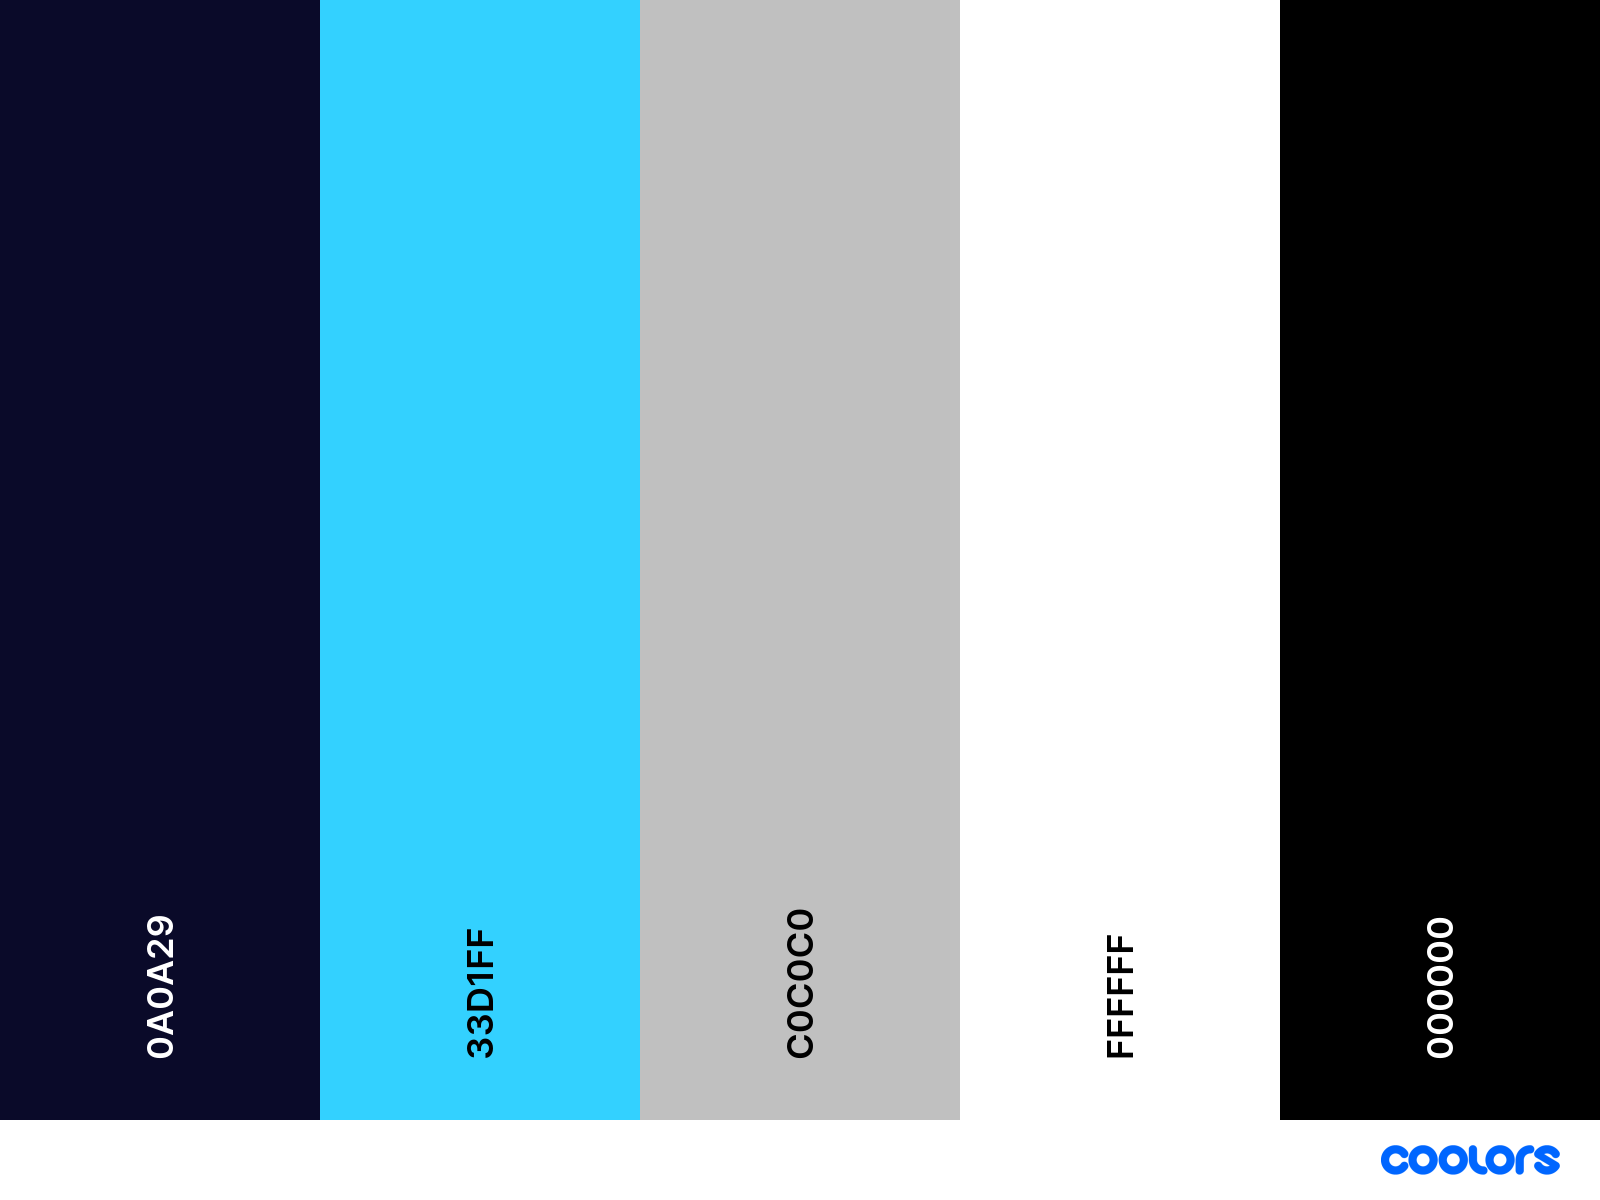
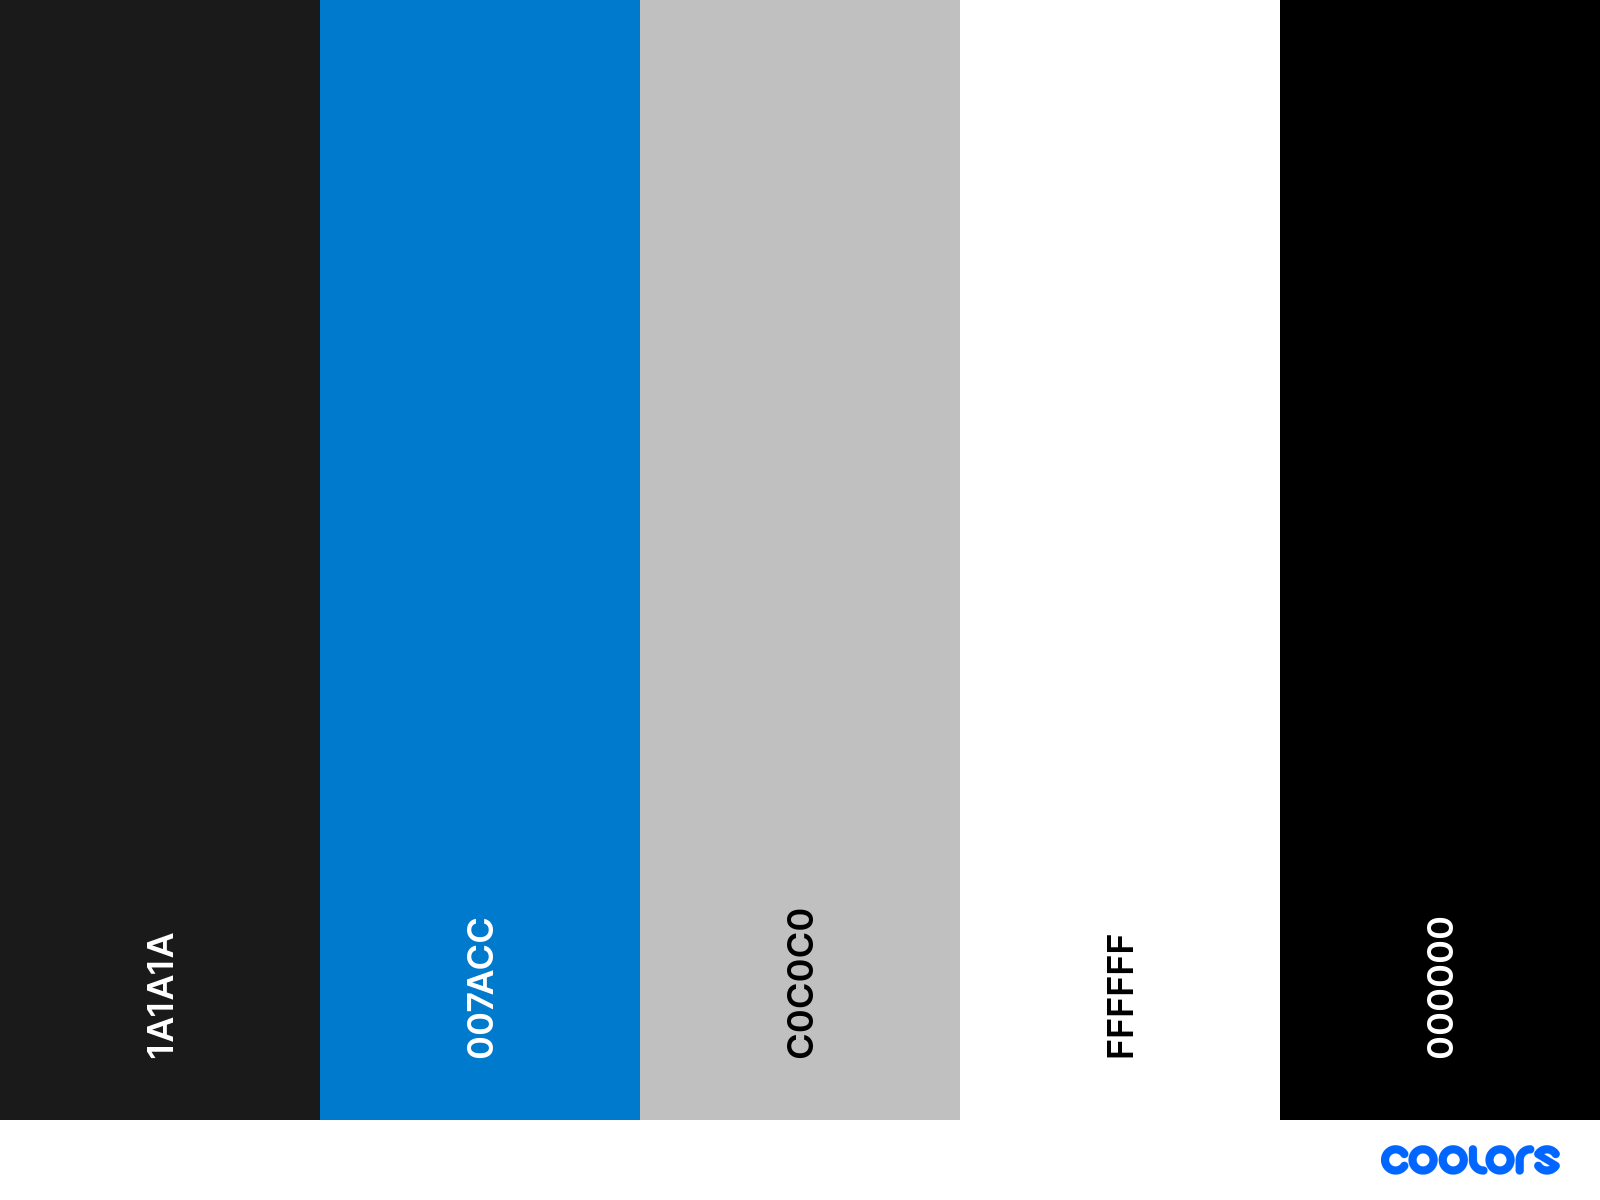
--wip-- [skip ci]

Changed region(s): [[0.1875, 0.0, 0.4062, 0.9558], [0.0938, 0.7708, 0.125, 0.8942]]

diff --git a/README.md b/README.md
@@ -1,71 +1,69 @@
 # Transcension AI Brand Book
 
-This document outlines the official brand guidelines for **Transcension AI**, including color usage, typography, and brand assets.
+This document outlines the official brand guidelines for **Transcension AI**, covering logo usage, color palette, typography, and design standards to ensure a cohesive and accessible brand identity.
 
 ## Brand Overview
 
-**Transcension AI** represents innovation, professionalism, and forward-thinking technology solutions. Our brand assets are designed to communicate a sleek, modern, and tech-focused identity, ensuring consistency across all platforms and media.
+**Transcension AI** represents innovation, professionalism, and accessibility in technology. Our brand assets are crafted to communicate a sleek, modern, and tech-focused identity, ensuring consistency and readability across all platforms and media.
 
 ## Logo
 
 ### Primary Logo
 
-The primary logo consists of the **Transcension AI** symbol and wordmark, with the wordmark using [**Montserrat Semi-Bold**](https://fonts.google.com/specimen/Montserrat). The wordmark has been adjusted for a tighter width, enhancing readability and a sleek aesthetic.
+The primary logo includes the **Transcension AI** symbol and wordmark, with the wordmark set in [**Montserrat Semi-Bold**](https://fonts.google.com/specimen/Montserrat). The wordmark has been adjusted for a tighter width to enhance readability and maintain a sleek aesthetic.
 
 ### Logo Usage
 
-- **Primary Color Backgrounds**: Use the logo in white on dark blue or black backgrounds.
-- **Light Backgrounds**: Use the logo in black on white or light gray backgrounds.
+- **Primary Backgrounds**: Use the logo in white on dark backgrounds (e.g., #1A1A1A or black #000000).
+- **Light Backgrounds**: Use the logo in black or the dark blue (#007ACC) on white (#FFFFFF) or light gray (#C0C0C0) backgrounds.
 
-Ensure there is adequate spacing around the logo to maintain visual clarity.
+Ensure there is adequate whitespace around the logo for clarity and visual balance.
 
 ### Logo Variations
 
-| Logo Variation | Use Case | Preview |
-| -------------- | -------- | ------- |
-| **Symbol Black & White** | Monochrome use on light or dark backgrounds. | ![Symbol BW](logo/logo_symbol-bw.png) |
-| **Symbol Colour** | Full-color version for digital and print media. | ![Symbol Colour](logo/logo_symbol-colour.png) |
-| **Wordmark Black** | Monochrome use on light backgrounds. | ![Wordmark Black](logo/logo_wordmark-black.png) |
-| **Wordmark Blue & Black** | Blue & black wordmark on light backgrounds. | ![Wordmark Blue-Black](logo/logo_wordmark-blue-black.png) |
-| **Wordmark Blue & White** | Blue & white wordmark on dark backgrounds. | ![Wordmark Blue-White](logo/logo_wordmark-blue-white.png) |
-| **Wordmark Colour** | Full-color wordmark for digital and print media. | ![Wordmark Colour](logo/logo_wordmark-colour.png) |
-| **Wordmark White** | White wordmark on dark backgrounds. | ![Wordmark White](logo/logo_wordmark-white.png) |
+| Logo Variation            | Use Case                                    | Preview                                   |
+|---------------------------|---------------------------------------------|-------------------------------------------|
+| **Symbol Black & White**  | Monochrome use on light or dark backgrounds | ![Symbol BW](logo/logo_symbol-bw.png)     |
+| **Symbol Colour**         | Full-color version for digital and print    | ![Symbol Colour](logo/logo_symbol-colour.png) |
+| **Wordmark Black**        | Monochrome use on light backgrounds         | ![Wordmark Black](logo/logo_wordmark-black.png) |
+| **Wordmark Blue**         | Dark blue wordmark on light backgrounds     | ![Wordmark Blue](logo/logo_wordmark-blue.png) |
+| **Wordmark White**        | White wordmark on dark backgrounds          | ![Wordmark White](logo/logo_wordmark-white.png) |
 
 ## Color Palette
 
-Our color palette conveys a blend of professionalism, energy, and sophistication. Each color has a specific role to ensure brand consistency and impact.
+Our color palette has been chosen to balance accessibility, professionalism, and modernity. Each color has a specific role to ensure brand consistency, readability, and impact.
 
-![Colour Palette](palette.png)
+![Color Palette](palette.png)
 
 ### Primary Colors
 
-- **Dark Blue**: #0A0A29
-  - **Use**: Backgrounds for digital and print media, primary brand color.
+- **Dark Background** (#1A1A1A)
+  - **Use**: Main background for digital and print media, creating a strong, professional foundation.
 
-- **Bright Blue**: #33D1FF
-  - **Use**: Highlights, call-to-action elements, and logo accents.
+- **Electric Blue** (#007ACC)
+  - **Use**: Primary accent color for call-to-action elements, highlights, and logo symbols.
 
 ### Secondary Colors
 
-- **Gray**: #C0C0C0
+- **Gray** (#C0C0C0)
   - **Use**: Backgrounds, borders, secondary text, and subtle accents.
 
 ### Neutral Colors
 
-- **White**: #FFFFFF
+- **White** (#FFFFFF)
   - **Use**: Backgrounds, primary text on dark backgrounds, and clean layouts.
 
-- **Black**: #000000
+- **Black** (#000000)
   - **Use**: Primary text on light backgrounds, high-contrast elements, and monochrome logo variations.
 
 ## Typography
 
-Our primary typeface is [**Montserrat Semi-Bold**](https://fonts.google.com/specimen/Montserrat). The font has been modified for a tighter width to create a sleek, modern appearance that aligns with the Transcension AI identity.
+Our primary typeface is [**Montserrat Semi-Bold**](https://fonts.google.com/specimen/Montserrat), modified for a tighter width to give a modern, streamlined appearance that aligns with Transcension AI’s tech-focused identity.
 
-**Font Pairing**: Pair Montserrat with simple sans-serif fonts like Arial or Helvetica for body text in longer documents or presentations to maintain a clean, professional look.
+**Font Pairing**: For body text in longer documents, pair Montserrat with simple sans-serif fonts like Arial or Helvetica to maintain a clean and professional look.
 
 ## Usage Guidelines
 
-- **Logo Spacing**: Ensure sufficient whitespace around the logo for clarity.
-- **Accent Colors**: Use the bright blue accent sparingly to highlight interactive or key elements, maintaining a balanced and professional design.
-- **Secondary Accent**: Use gray for subtle design elements like borders, backgrounds, and secondary text, enhancing readability without competing with primary colors.
+- **Logo Spacing**: Ensure sufficient whitespace around the logo for clarity and impact.
+- **Accent Colors**: Use **Electric Blue (#007ACC)** sparingly to highlight interactive or key elements and **Gray (#C0C0C0)** for softer background sections or secondary content.
+- **Neutral Balance**: Use **Gray (#C0C0C0)** for subtle design elements like borders, backgrounds, and secondary text, enhancing readability without competing with primary colors.
